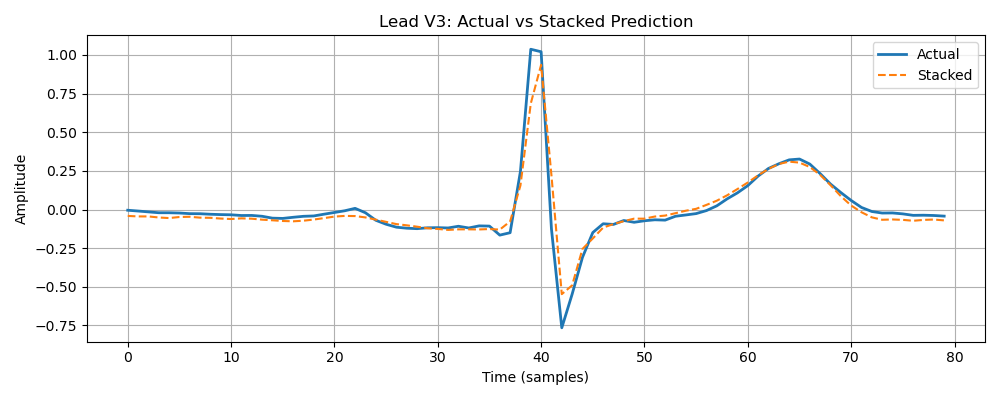
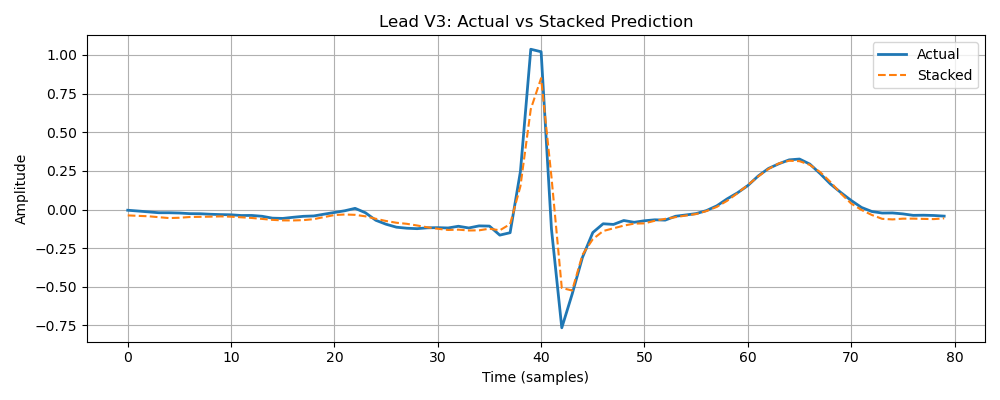
I, II, V2 (PQRST, Stats, Freq, Metadata, RR, PR, ST, QT, QRS Area/Duration, T-Wave Area). Stacking XGB + MLP. The best results so far.

diff --git a/QRS_to_Multilead_Reconstruction/PQRST_80_Extractor.py b/QRS_to_Multilead_Reconstruction/PQRST_80_Extractor.py
@@ -1,12 +1,8 @@
-# Modified to use V2 as an input like leads I and II
-# Now saves rr1, rr2, rr3 (in seconds) for each segment
-
 import os
 import joblib
 import neurokit2 as nk
 import numpy as np
 import pandas as pd
-import matplotlib.pyplot as plt
 from pathlib import Path
 from tqdm import tqdm
 from scipy.stats import skew, kurtosis, entropy
@@ -65,27 +61,40 @@ def find_qspt(signal, r_peaks, sampling_rate):
     post_samples = int(0.12 * sampling_rate)
     q_points, s_points, p_points, t_points = [], [], [], []
     for r in r_peaks:
+        # Q
         q_start = max(0, r - pre_samples)
         q_seg = signal[q_start:r]
         q = q_start + np.argmin(q_seg) if len(q_seg) > 0 else r
         q_points.append(q)
+        # S
         s_end = min(len(signal), r + post_samples)
         s_seg = signal[r:s_end]
         s = r + np.argmin(s_seg) if len(s_seg) > 0 else r
         s_points.append(s)
+        # P
         p_start = max(0, q - int(0.15 * sampling_rate))
         p_seg = signal[p_start:q]
         p = p_start + np.argmax(p_seg) if len(p_seg) > 0 else q
         p_points.append(p)
+        # T
         t_end = min(len(signal), s + int(0.4 * sampling_rate))
         t_seg = signal[s:t_end]
         t = s + np.argmax(t_seg) if len(t_seg) > 0 else s
         t_points.append(t)
     return np.array(p_points), np.array(q_points), np.array(r_peaks), np.array(s_points), np.array(t_points)
 
+def compute_area(signal, start, end):
+    if start is None or end is None or end <= start:
+        return np.nan
+    return np.trapz(signal[start:end], dx=1.0/sampling_rate)
+
+def compute_duration(start, end):
+    if start is None or end is None or end <= start:
+        return np.nan
+    return (end - start) / sampling_rate
+
 def build_dataset_with_stats(ecg_dataset, meta_df):
     dataset = []
-
     for i, sample in enumerate(tqdm(ecg_dataset, desc="Building dataset with stats (80 samples)")):
         if i >= len(meta_df):
             break
@@ -122,61 +131,95 @@ def build_dataset_with_stats(ecg_dataset, meta_df):
             r_v3_idx = np.argmin(np.abs(r_v3 - r))
             if r_ii_idx >= len(p_ii) or r_v2_idx >= len(p_v2) or r_v3_idx >= len(p_v3):
                 continue
-
             start, end = r - padding, r + padding
-            if start >= 0 and end <= sample.shape[0]:
-                segment_i = lead_i[start:end]
-                segment_ii = lead_ii[start:end]
-                segment_v2 = lead_v2[start:end]
-                segment_v3 = lead_v2[start:end]
+            if start < 0 or end > sample.shape[0]:
+                continue
 
-                stats_i = extract_stat_features(segment_i)
-                stats_ii = extract_stat_features(segment_ii)
-                stats_v2 = extract_stat_features(segment_v2)
+            segment_i = lead_i[start:end]
+            segment_ii = lead_ii[start:end]
+            segment_v2 = lead_v2[start:end]
 
-                freq_i = extract_freq_features(segment_i, fs=sampling_rate)
-                freq_ii = extract_freq_features(segment_ii, fs=sampling_rate)
-                freq_v2 = extract_freq_features(segment_v2, fs=sampling_rate)
+            stats_i = extract_stat_features(segment_i)
+            stats_ii = extract_stat_features(segment_ii)
+            stats_v2 = extract_stat_features(segment_v2)
+            freq_i = extract_freq_features(segment_i, fs=sampling_rate)
+            freq_ii = extract_freq_features(segment_ii, fs=sampling_rate)
+            freq_v2 = extract_freq_features(segment_v2, fs=sampling_rate)
 
-                rr1 = (r_i[j] - r_i[j - 1]) / sampling_rate
-                rr2 = (r_ii[r_ii_idx] - r_ii[r_ii_idx - 1]) / sampling_rate if r_ii_idx > 0 else 0
-                rr3 = (r_v2[r_v2_idx] - r_v2[r_v2_idx - 1]) / sampling_rate if r_v2_idx > 0 else 0
+            rr1 = (r_i[j] - r_i[j - 1]) / sampling_rate
+            rr2 = (r_ii[r_ii_idx] - r_ii[r_ii_idx - 1]) / sampling_rate if r_ii_idx > 0 else 0
+            rr3 = (r_v2[r_v2_idx] - r_v2[r_v2_idx - 1]) / sampling_rate if r_v2_idx > 0 else 0
 
-                other_leads_waveforms = {
-                    lead_names[k]: sample[start:end, k] for k in range(12)
-                    if k not in [0, 1, lead_names.index('V2')]
-                }
+            # QRS area and duration
+            qrs_area_i = compute_area(lead_i, q_i[j], s_i[j])
+            qrs_area_ii = compute_area(lead_ii, q_ii[r_ii_idx], s_ii[r_ii_idx])
+            qrs_area_v2 = compute_area(lead_v2, q_v2[r_v2_idx], s_v2[r_v2_idx])
+            qrs_dur_i = compute_duration(q_i[j], s_i[j])
+            qrs_dur_ii = compute_duration(q_ii[r_ii_idx], s_ii[r_ii_idx])
+            qrs_dur_v2 = compute_duration(q_v2[r_v2_idx], s_v2[r_v2_idx])
+            t_area_i = compute_area(lead_i, s_i[j], t_i[j])
+            t_area_ii = compute_area(lead_ii, s_ii[r_ii_idx], t_ii[r_ii_idx])
+            t_area_v2 = compute_area(lead_v2, s_v2[r_v2_idx], t_v2[r_v2_idx])
 
-                dataset.append({
-                    "pqrst_lead_I": [(p_i[j]/sampling_rate, lead_i[p_i[j]]), (q_i[j]/sampling_rate, lead_i[q_i[j]]),
-                                       (r/sampling_rate, lead_i[r]), (s_i[j]/sampling_rate, lead_i[s_i[j]]), (t_i[j]/sampling_rate, lead_i[t_i[j]])],
-                    "pqrst_lead_II": [(p_ii[r_ii_idx]/sampling_rate, lead_ii[p_ii[r_ii_idx]]),
-                                        (q_ii[r_ii_idx]/sampling_rate, lead_ii[q_ii[r_ii_idx]]),
-                                        (r_ii[r_ii_idx]/sampling_rate, lead_ii[r_ii[r_ii_idx]]),
-                                        (s_ii[r_ii_idx]/sampling_rate, lead_ii[s_ii[r_ii_idx]]),
-                                        (t_ii[r_ii_idx]/sampling_rate, lead_ii[t_ii[r_ii_idx]])],
-                    "pqrst_lead_V2": [(p_v2[r_v2_idx]/sampling_rate, lead_v2[p_v2[r_v2_idx]]),
-                                        (q_v2[r_v2_idx]/sampling_rate, lead_v2[q_v2[r_v2_idx]]),
-                                        (r_v2[r_v2_idx]/sampling_rate, lead_v2[r_v2[r_v2_idx]]),
-                                        (s_v2[r_v2_idx]/sampling_rate, lead_v2[s_v2[r_v2_idx]]),
-                                        (t_v2[r_v2_idx]/sampling_rate, lead_v2[t_v2[r_v2_idx]])],
-                    "rr1": rr1,
-                    "rr2": rr2,
-                    "rr3": rr3,
-                    "stats_lead_I": stats_i,
-                    "stats_lead_II": stats_ii,
-                    "stats_lead_V2": stats_v2,
-                    "freq_lead_I": freq_i,
-                    "freq_lead_II": freq_ii,
-                    "freq_lead_V2": freq_v2,
-                    "other_leads": other_leads_waveforms,
-                    "age": age,
-                    "sex": sex,
-                    "hr": hr,
-                    **onehot_features,
-                    "source_index": i
-                })
+            # --- NaN/Inf check: skip if any feature is NaN or Inf ---
+            features_to_check = [
+                qrs_area_i, qrs_area_ii, qrs_area_v2,
+                qrs_dur_i, qrs_dur_ii, qrs_dur_v2,
+                t_area_i, t_area_ii, t_area_v2,
+                rr1, rr2, rr3
+            ]
+            stats_list = list(stats_i.values()) + list(stats_ii.values()) + list(stats_v2.values())
+            freq_list = list(freq_i.values()) + list(freq_ii.values()) + list(freq_v2.values())
+            features_to_check += stats_list + freq_list
+
+            if any(np.isnan(f) or np.isinf(f) for f in features_to_check):
+                continue
+
+            other_leads_waveforms = {
+                lead_names[k]: sample[start:end, k] for k in range(12)
+                if k not in [0, 1, lead_names.index('V2')]
+            }
+
+            dataset.append({
+                "pqrst_lead_I": [(p_i[j]/sampling_rate, lead_i[p_i[j]]), (q_i[j]/sampling_rate, lead_i[q_i[j]]),
+                                 (r/sampling_rate, lead_i[r]), (s_i[j]/sampling_rate, lead_i[s_i[j]]), (t_i[j]/sampling_rate, lead_i[t_i[j]])],
+                "pqrst_lead_II": [(p_ii[r_ii_idx]/sampling_rate, lead_ii[p_ii[r_ii_idx]]),
+                                  (q_ii[r_ii_idx]/sampling_rate, lead_ii[q_ii[r_ii_idx]]),
+                                  (r_ii[r_ii_idx]/sampling_rate, lead_ii[r_ii[r_ii_idx]]),
+                                  (s_ii[r_ii_idx]/sampling_rate, lead_ii[s_ii[r_ii_idx]]),
+                                  (t_ii[r_ii_idx]/sampling_rate, lead_ii[t_ii[r_ii_idx]])],
+                "pqrst_lead_V2": [(p_v2[r_v2_idx]/sampling_rate, lead_v2[p_v2[r_v2_idx]]),
+                                  (q_v2[r_v2_idx]/sampling_rate, lead_v2[q_v2[r_v2_idx]]),
+                                  (r_v2[r_v2_idx]/sampling_rate, lead_v2[r_v2[r_v2_idx]]),
+                                  (s_v2[r_v2_idx]/sampling_rate, lead_v2[s_v2[r_v2_idx]]),
+                                  (t_v2[r_v2_idx]/sampling_rate, lead_v2[t_v2[r_v2_idx]])],
+                "rr1": rr1,
+                "rr2": rr2,
+                "rr3": rr3,
+                "qrs_area_I": qrs_area_i,
+                "qrs_area_II": qrs_area_ii,
+                "qrs_area_V2": qrs_area_v2,
+                "qrs_dur_I": qrs_dur_i,
+                "qrs_dur_II": qrs_dur_ii,
+                "qrs_dur_V2": qrs_dur_v2,
+                "t_area_I": t_area_i,
+                "t_area_II": t_area_ii,
+                "t_area_V2": t_area_v2,
+                "stats_lead_I": stats_i,
+                "stats_lead_II": stats_ii,
+                "stats_lead_V2": stats_v2,
+                "freq_lead_I": freq_i,
+                "freq_lead_II": freq_ii,
+                "freq_lead_V2": freq_v2,
+                "other_leads": other_leads_waveforms,
+                "age": age,
+                "sex": sex,
+                "hr": hr,
+                **onehot_features,
+                "source_index": i
+            })
     return dataset
+
 
 if __name__ == "__main__":
     print("Loading data...")
@@ -184,12 +227,10 @@ if __name__ == "__main__":
     test_data = joblib.load(input_test_path)
     train_meta = pd.read_csv(meta_train_path)
     test_meta = pd.read_csv(meta_test_path)
-
     print("Building datasets with stats (80 samples)...")
     train_set = build_dataset_with_stats(train_data, train_meta)
     test_set = build_dataset_with_stats(test_data, test_meta)
-
     print("Saving...")
     joblib.dump(train_set, output_dir / "pqrst_stats_train_80.pkl")
     joblib.dump(test_set, output_dir / "pqrst_stats_test_80.pkl")
-    print("✅ Done with V2-based PQRST dataset!")
+    print("✅ Done with V2-based PQRST dataset including QRS/T area and duration features!")

diff --git a/QRS_to_Multilead_Reconstruction/Ensemble_Model.py b/QRS_to_Multilead_Reconstruction/Ensemble_Model.py
@@ -51,40 +51,62 @@ def extract_features_and_targets(data, target_lead):
             (tp2, ap2), (tq2, aq2), (tr2, ar2), (ts2, as2), (tt2, at2) = pqrst_II
             (tp3, ap3), (tq3, aq3), (tr3, ar3), (ts3, as3), (tt3, at3) = pqrst_V2
 
-            # New Intervals: PR, ST, QT, RR
+            # --- Intervals ---
             intervals = [
                 tr1 - tp1, tt1 - ts1, tt1 - tq1, seg.get("rr1", 0),
                 tr2 - tp2, tt2 - ts2, tt2 - tq2, seg.get("rr2", 0),
                 tr3 - tp3, tt3 - ts3, tt3 - tq3, seg.get("rr3", 0)
             ]
 
+            # --- Amplitudes ---
             amplitudes = [
                 aq1, ar1, as1, at1,
                 aq2, ar2, as2, at2,
                 aq3, ar3, as3, at3
             ]
 
+            # --- New QRS/T features ---
+            qrs_t_features = [
+                seg.get("qrs_area_I", 0),
+                seg.get("qrs_area_II", 0),
+                seg.get("qrs_area_V2", 0),
+                seg.get("qrs_dur_I", 0),
+                seg.get("qrs_dur_II", 0),
+                seg.get("qrs_dur_V2", 0),
+                seg.get("t_area_I", 0),
+                seg.get("t_area_II", 0),
+                seg.get("t_area_V2", 0)
+            ]
+
+            # --- Demographics ---
             age = seg.get("age", 0)
             sex = 1 if str(seg.get("sex", "M")).upper().startswith("M") else 0
             hr = seg.get("hr", 0)
             onehot_values = [seg.get(name, 0) for name in encoded_features]
 
+            # --- Statistical features ---
             stats_features = (
                 list(seg['stats_lead_I'].values()) +
                 list(seg['stats_lead_II'].values()) +
                 list(seg['stats_lead_V2'].values())
             )
 
+            # --- Frequency features ---
             freq_features = (
                 list(seg['freq_lead_I'].values()) +
                 list(seg['freq_lead_II'].values()) +
                 list(seg['freq_lead_V2'].values())
             )
 
+            # --- Combined feature vector ---
             features = (
-                intervals + amplitudes +
-                [age, sex, hr] + onehot_values +
-                stats_features + freq_features
+                intervals + 
+                amplitudes + 
+                qrs_t_features + 
+                [age, sex, hr] + 
+                onehot_values + 
+                stats_features + 
+                freq_features
             )
 
             target = seg['other_leads'][target_lead]
@@ -127,7 +149,9 @@ with open(metrics_file, 'w') as f:
         X_test_scaled = scaler.transform(X_test)
 
         # --- Base Models ---
-        xgb_model = MultiOutputRegressor(XGBRegressor(n_estimators=150, learning_rate=0.1, max_depth=6, verbosity=0))
+        xgb_model = MultiOutputRegressor(
+            XGBRegressor(n_estimators=150, learning_rate=0.1, max_depth=6, verbosity=0)
+        )
         xgb_model.fit(X_train_scaled, y_train)
 
         mlp_model = build_mlp_model(input_dim=X_train_scaled.shape[1])
@@ -138,6 +162,7 @@ with open(metrics_file, 'w') as f:
             callbacks=[EarlyStopping(patience=10, restore_best_weights=True)],
             verbose=1
         )
+
         y_pred_mlp_train = mlp_model.predict(X_train_scaled)
         y_pred_xgb_train = xgb_model.predict(X_train_scaled)
 
@@ -172,4 +197,3 @@ with open(metrics_file, 'w') as f:
         plt.close()
 
 print("\n🎉 All stacked ensemble models trained and evaluated.")
-
